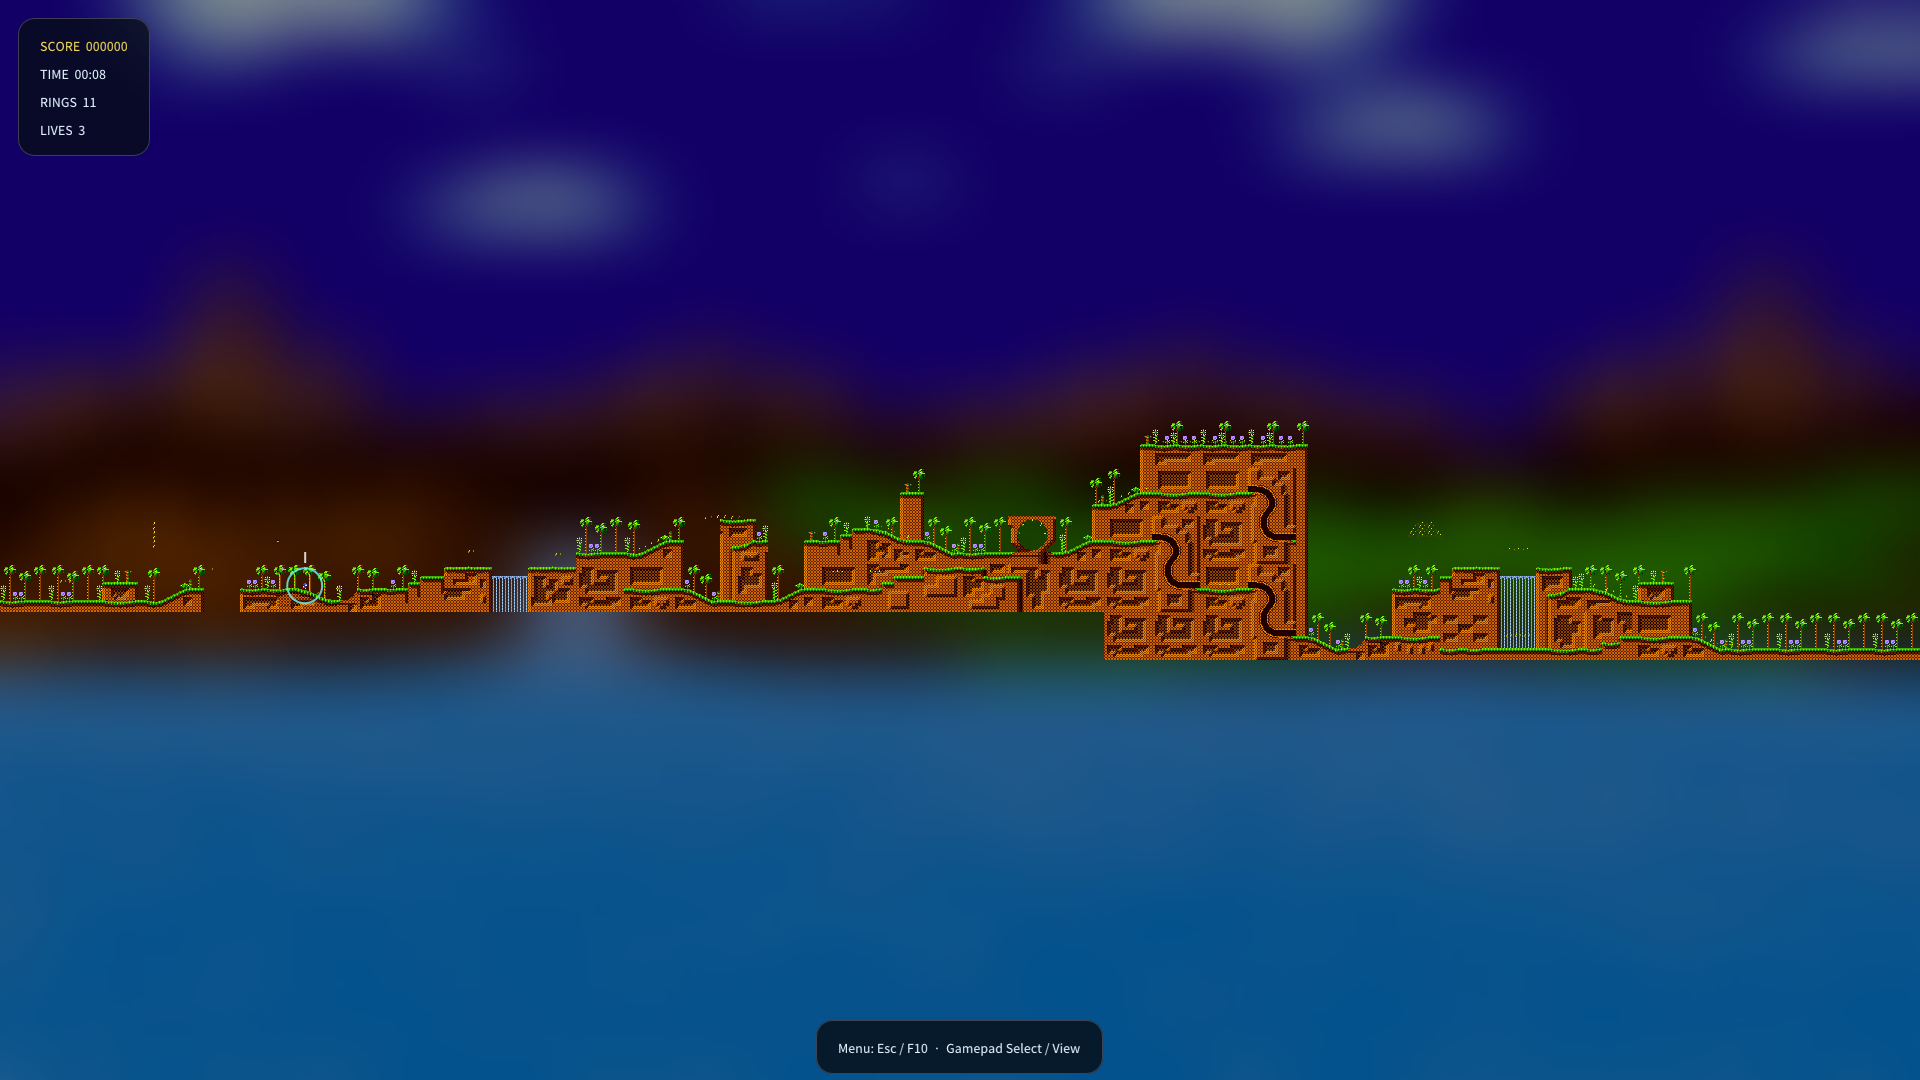
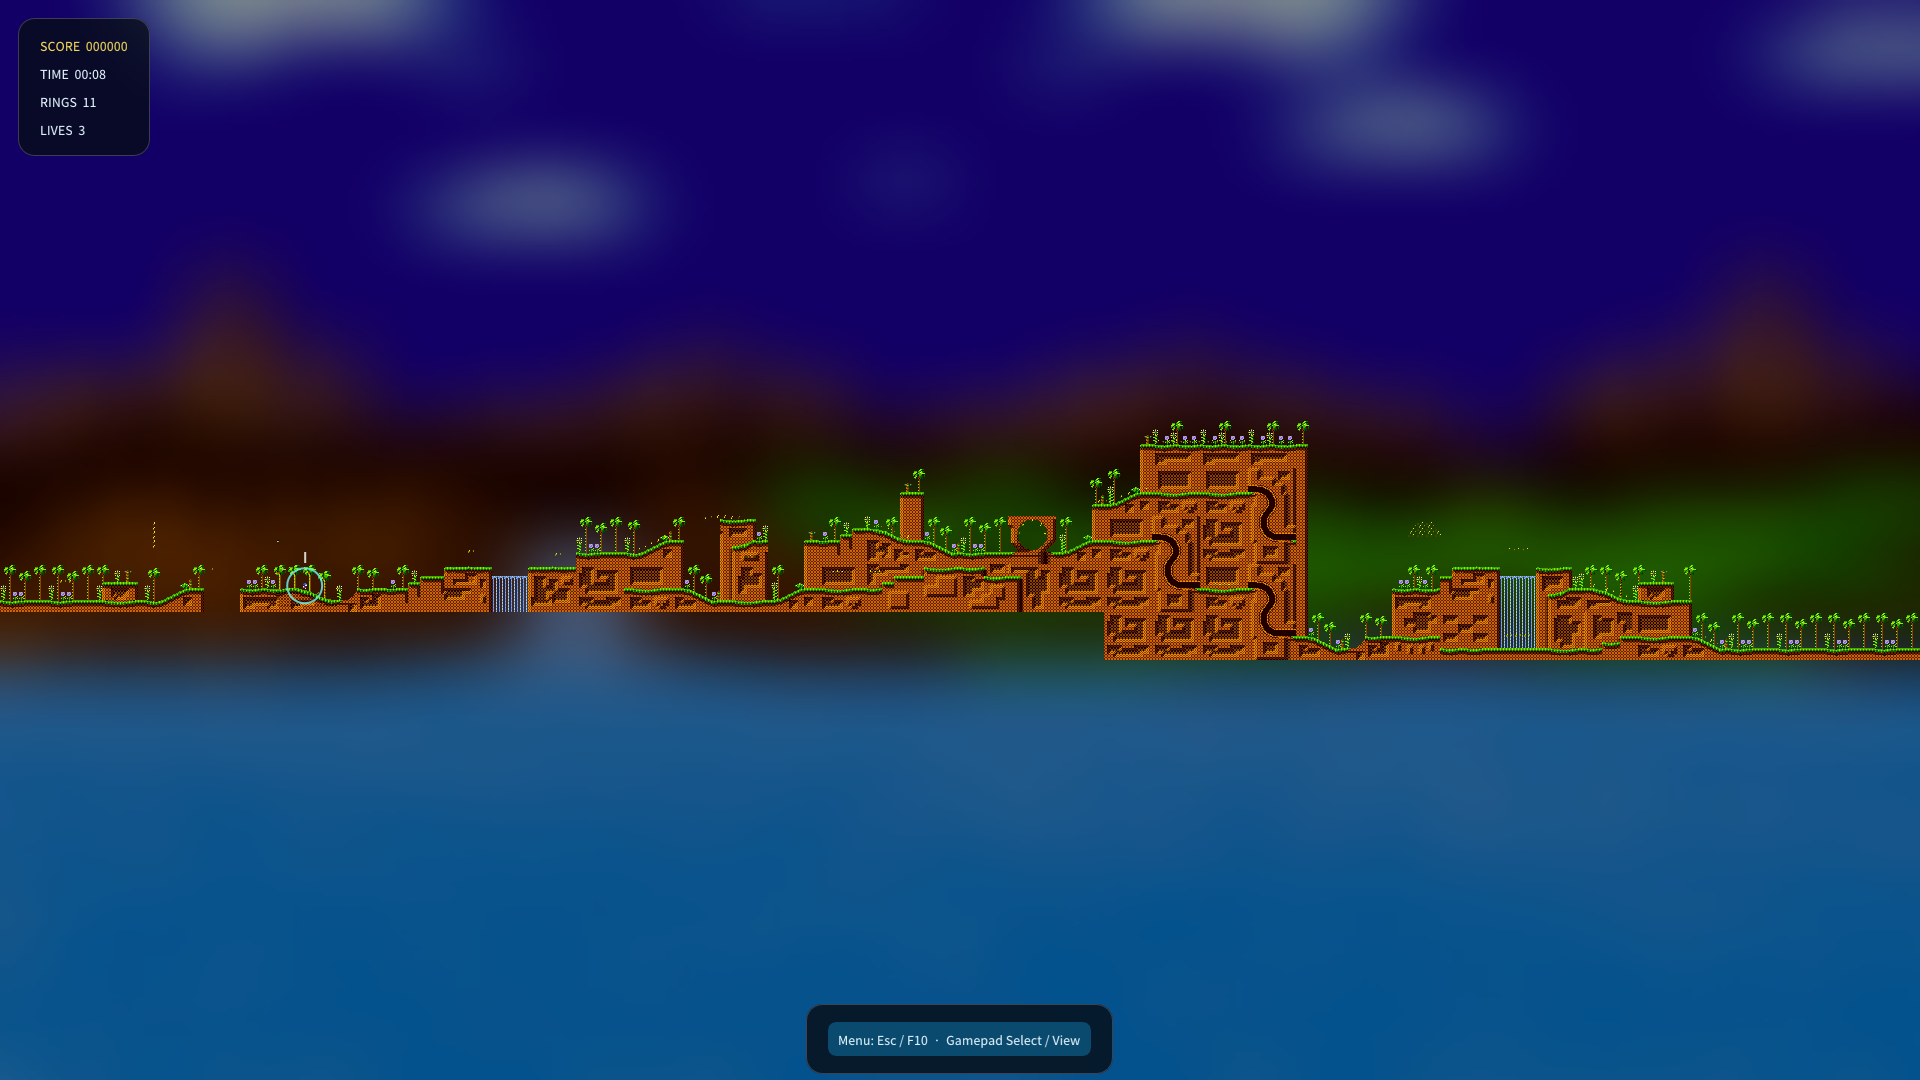
Support virtual keyboards and preserve paused save-state rendering

Changed region(s): [[0.4062, 0.9167, 0.5938, 1.0]]

diff --git a/src/ui.cpp b/src/ui.cpp
@@ -137,6 +137,7 @@ void App::refreshControllers() {
 }
 void App::toggleMenu() {
     menu = !menu;
+    pendingButtons[0] = pendingButtons[1] = 0;
     core.clearAudio();
     dirty = true;
 }
@@ -222,6 +223,7 @@ void App::event(const SDL_Event &e) {
             focused = true;
         if (e.window.event == SDL_WINDOWEVENT_FOCUS_LOST) {
             focused = false;
+            pendingButtons[0] = pendingButtons[1] = 0;
             core.clearAudio();
         }
         if (e.window.event == SDL_WINDOWEVENT_SIZE_CHANGED) {
@@ -258,6 +260,32 @@ void App::event(const SDL_Event &e) {
             return;
         }
         if (!menu && core.loaded) {
+            // Keep a short press until the next native tick, even if the display
+            // loop observes its down and up events within one refresh.
+            auto scan = e.key.keysym.scancode;
+            auto tap = [&](int player, SDL_Scancode expected, unsigned bit) {
+                if (scan == expected)
+                    pendingButtons[player] |= uint16_t(1u << bit);
+            };
+            if (!(mod & (KMOD_CTRL | KMOD_ALT))) {
+                tap(0, SDL_SCANCODE_UP, RETRO_DEVICE_ID_JOYPAD_UP);
+                tap(0, SDL_SCANCODE_DOWN, RETRO_DEVICE_ID_JOYPAD_DOWN);
+                tap(0, SDL_SCANCODE_LEFT, RETRO_DEVICE_ID_JOYPAD_LEFT);
+                tap(0, SDL_SCANCODE_RIGHT, RETRO_DEVICE_ID_JOYPAD_RIGHT);
+                tap(0, SDL_SCANCODE_Z, RETRO_DEVICE_ID_JOYPAD_Y);
+                tap(0, SDL_SCANCODE_X, RETRO_DEVICE_ID_JOYPAD_B);
+                tap(0, SDL_SCANCODE_SPACE, RETRO_DEVICE_ID_JOYPAD_B);
+                tap(0, SDL_SCANCODE_C, RETRO_DEVICE_ID_JOYPAD_A);
+                tap(0, SDL_SCANCODE_RETURN, RETRO_DEVICE_ID_JOYPAD_START);
+                tap(1, SDL_SCANCODE_I, RETRO_DEVICE_ID_JOYPAD_UP);
+                tap(1, SDL_SCANCODE_K, RETRO_DEVICE_ID_JOYPAD_DOWN);
+                tap(1, SDL_SCANCODE_J, RETRO_DEVICE_ID_JOYPAD_LEFT);
+                tap(1, SDL_SCANCODE_L, RETRO_DEVICE_ID_JOYPAD_RIGHT);
+                tap(1, SDL_SCANCODE_U, RETRO_DEVICE_ID_JOYPAD_Y);
+                tap(1, SDL_SCANCODE_O, RETRO_DEVICE_ID_JOYPAD_B);
+                tap(1, SDL_SCANCODE_P, RETRO_DEVICE_ID_JOYPAD_A);
+                tap(1, SDL_SCANCODE_RSHIFT, RETRO_DEVICE_ID_JOYPAD_START);
+            }
             if (k >= SDLK_F1 && k <= SDLK_F9) {
                 try {
                     if (mod & KMOD_SHIFT)
@@ -318,6 +346,8 @@ void App::pollInput() {
     core.buttons[0] = core.buttons[1] = 0;
     if (menu)
         return;
+    core.buttons[0] = pendingButtons[0];
+    core.buttons[1] = pendingButtons[1];
     auto set = [&](int p, bool on, int bit) {
         if (on)
             core.buttons[p] |= 1 << bit;
@@ -498,10 +528,11 @@ void App::present(bool capture) {
         ImGui::SetNextWindowBgAlpha(0.8f);
         ImGui::Begin("##hint", nullptr,
                      ImGuiWindowFlags_NoDecoration | ImGuiWindowFlags_AlwaysAutoResize |
-                         ImGuiWindowFlags_NoInputs | ImGuiWindowFlags_NoSavedSettings);
+                         ImGuiWindowFlags_NoNav | ImGuiWindowFlags_NoSavedSettings);
         if (io.DisplaySize.x < 600)
             ImGui::SetWindowFontScale(0.78f);
-        ImGui::TextUnformatted(tr("menuhint", language));
+        if (ImGui::Button(tr("menuhint", language)))
+            toggleMenu();
         if (settings.performance)
             ImGui::Text("%.1f fps · %d × %d", measuredFps, drawableW, drawableH);
         if (!notice.empty())
@@ -881,10 +912,16 @@ void App::optionsUi(int section) {
             }
         }
         if (ImGui::Button(tr("reset", language))) {
-            if(settings.lockon!=core.locked&&core.currentId!="sonic2k"&&core.currentId!="sonic3k"&&core.currentId!="sphere") {
-                std::string id=core.currentId;bool automatic=settings.autosave;
-                settings.autosave=false;play(id);settings.autosave=automatic;menu=true;
-            }else core.reset();
+            if (settings.lockon != core.locked && core.currentId != "sonic2k" &&
+                core.currentId != "sonic3k" && core.currentId != "sphere") {
+                std::string id = core.currentId;
+                bool automatic = settings.autosave;
+                settings.autosave = false;
+                play(id);
+                settings.autosave = automatic;
+                menu = true;
+            } else
+                core.reset();
         }
         ImGui::SameLine();
         if (ImGui::Button(tr("capture", language)))

diff --git a/src/core.cpp b/src/core.cpp
@@ -456,7 +456,15 @@ std::vector<uint8_t> Core::state() const {
     std::vector<uint8_t> body(n);
     if (!retro_serialize(body.data(), body.size()))
         throw std::runtime_error("State save failed");
-    std::vector<uint8_t> b{'S', 'C', 'U', '1'};
+    // Preserve the completed raster as well as guest state. Otherwise a paused
+    // load or rewind can briefly mix the previous scene with restored geometry.
+    const auto *image = reinterpret_cast<const uint8_t *>(&snapshot);
+    body.insert(body.end(), image, image + sizeof snapshot);
+    unsigned width = native.empty() ? 0 : nativeW, height = native.empty() ? 0 : nativeH;
+    const auto *pixels = reinterpret_cast<const uint8_t *>(native.data());
+    if (!native.empty())
+        body.insert(body.end(), pixels, pixels + native.size() * sizeof(uint32_t));
+    std::vector<uint8_t> b{'S', 'C', 'U', '2'};
     put32(b, runningCrc);
     put32(b, (uint32_t)n);
     put32(b, checksum(body));
@@ -464,23 +472,51 @@ std::vector<uint8_t> Core::state() const {
     put32(b, spinCharge);
     put32(b, (uint32_t)spinFacing);
     put32(b, lastButtons);
+    put32(b, width);
+    put32(b, height);
     b.insert(b.end(), body.begin(), body.end());
     return b;
 }
 bool Core::restore(const std::vector<uint8_t> &b) {
-    if (!loaded || b.size() < 32 || std::memcmp(b.data(), "SCU1", 4) || get32(b, 4) != runningCrc ||
-        get32(b, 8) != b.size() - 32)
+    if (!loaded || b.size() < 32 || get32(b, 4) != runningCrc)
         return false;
-    std::vector<uint8_t> body(b.begin() + 32, b.end());
+    bool raster = std::memcmp(b.data(), "SCU2", 4) == 0;
+    if (!raster && std::memcmp(b.data(), "SCU1", 4))
+        return false;
+    size_t header = raster ? 40 : 32, n = get32(b, 8), pixels = 0;
+    unsigned width = 0, height = 0;
+    if (n > 16 * 1024 * 1024 || b.size() < header)
+        return false;
+    if (raster) {
+        width = get32(b, 32);
+        height = get32(b, 36);
+        if (width > 720 || height > 576 || (!width != !height))
+            return false;
+        pixels = size_t(width) * height;
+    }
+    size_t expected = n + (raster ? sizeof snapshot + pixels * sizeof(uint32_t) : 0);
+    if (b.size() - header != expected)
+        return false;
+    std::vector<uint8_t> body(b.begin() + header, b.end());
     if (checksum(body) != get32(b, 12))
         return false;
-    if (!retro_unserialize(body.data(), body.size()))
+    if (!retro_unserialize(body.data(), n))
         return false;
     frame = get32(b, 16);
     spinCharge = std::min(8, (int)get32(b, 20));
-    spinFacing = (int32_t)get32(b, 24);
+    spinFacing = (int32_t)get32(b, 24) < 0 ? -1 : 1;
     lastButtons = (uint16_t)get32(b, 28);
     scu_snapshot(&snapshot);
+    native.clear();
+    if (raster) {
+        std::memcpy(&snapshot, body.data() + n, sizeof snapshot);
+        nativeW = width;
+        nativeH = height;
+        native.resize(pixels);
+        if (pixels)
+            std::memcpy(native.data(), body.data() + n + sizeof snapshot,
+                        pixels * sizeof(uint32_t));
+    }
     ++imageVersion;
     world.reset();
     clearAudio();

diff --git a/src/main.cpp b/src/main.cpp
@@ -68,7 +68,8 @@ static void option(Settings &s, const std::string &key, const std::string &value
     SET(hud)
     SET(hudScale)
     SET(background)
-    SET(blur) SET(brightness) SET(parallax) SET(minimap) SET(locator) SET(spindash) SET(invincible)
+    SET(blur)
+    SET(brightness) SET(parallax) SET(minimap) SET(locator) SET(spindash) SET(invincible)
         SET(infiniteAir) SET(rewind) SET(nativeScale) SET(ghost) SET(left) SET(top) SET(volume)
             SET(language) SET(help) SET(workers) SET(fullscreen) SET(span) SET(vsync) SET(uiScale)
                 SET(scanlines) SET(lockon) SET(fastBoot)
@@ -333,6 +334,7 @@ int main(int argc, char **argv) {
                 else {
                     if (limit && !args.count("--realtime")) {
                         a.core.tick();
+                        a.pendingButtons[0] = a.pendingButtons[1] = 0;
                         ++measureFrames;
                         ++executedFrames;
                     } else {
@@ -340,6 +342,7 @@ int main(int argc, char **argv) {
                         int ticks = 0;
                         while (accumulator >= 1 / a.core.fps && ticks++ < 4) {
                             a.core.tick();
+                            a.pendingButtons[0] = a.pendingButtons[1] = 0;
                             ++measureFrames;
                             ++executedFrames;
                             accumulator -= 1 / a.core.fps;

diff --git a/tests/runtime.cpp b/tests/runtime.cpp
@@ -87,13 +87,19 @@ int main() {
             red |= (pixel & 0xFF0000) >= 0xB00000 && (pixel & 0xFFFF) == 0;
         require(red, "VDP backdrop did not reach host framebuffer");
         auto state = core->state();
+        const auto savedVideo = core->native;
+        const auto savedBackdrop = core->snapshot.background[0][0];
         const auto counter = core->snapshot.ram[0x1235];
         const auto savedFrame = core->frame;
         for (int n = 0; n < 15; ++n)
             core->tick();
+        core->native.assign(core->native.size(), 0);
+        core->snapshot.background[0][0] ^= 0xFFFFFF;
         require(core->restore(state), "State restore");
         require(core->frame == savedFrame && core->snapshot.ram[0x1235] == counter,
                 "State failed to restore native RAM and host time");
+        require(core->native == savedVideo && core->snapshot.background[0][0] == savedBackdrop,
+                "State failed to restore the paused presentation raster");
         auto damaged = state;
         damaged.back() ^= 1;
         require(!core->restore(damaged), "Corrupt state accepted");

diff --git a/src/ui.h b/src/ui.h
@@ -29,6 +29,7 @@ class App {
     SDL_Window *window = nullptr;
     SDL_Renderer *renderer = nullptr;
     SDL_GameController *pads[2]{};
+    uint16_t pendingButtons[2]{};
     bool running = true, menu = true, focused = true, headless = false, dirty = false;
     bool screenshotRequested = false;
     int language = 0, drawableW = 1280, drawableH = 720;

diff --git a/docs/VENDOR.md b/docs/VENDOR.md
@@ -10,6 +10,8 @@
 
[1 lines of base64/hex data omitted]
 
+The pinned SDL Windows build receives a small, idempotent patch in `cmake/SDLLegacyKeys.cmake`: a virtual keyboard message with no hardware scan code is resolved through the Windows key map before normal SDL translation. This supports virtual/on-screen and automation keyboards while preserving messages that already contain scan codes. The source archive retains the original pinned tarball and the patch script. A system SDL library is used as supplied by that system.
+
 The vendored Genesis directories are the upstream `core` and `libretro` sources plus notices. SCU adds a read-only palette/background/scroll observer to `vdp_render.c`, fixes the omitted Boolean return in `update_geometry`, and builds through its own CMake source list with zlib 1.3.1. CPU, collision, native spawning and normal game timing are not rewritten by the presentation observer.
 
 The frontend and compositor are new project code. Sonic Retro disassemblies and the mstan renderer projects were consulted for documented memory/layout formats; their game ROMs, generated game-program C, box art and extracted artwork are not included.

diff --git a/docs/TEST_REPORT.md b/docs/TEST_REPORT.md
@@ -26,7 +26,9 @@ Physical host: Windows, AMD Ryzen 7 5800X, Nvidia GeForce RTX 5070. The three-sc
 | State files | Corrupt payload and wrong-cartridge states rejected; charged S1 spin dash survives save/load; previous files preserved as `.bak` |
 | Spin dash option | Identical Down/jump inputs: disabled Sonic stays near the start; enabled charge reaches 3, then launches forward and clears on release |
 | App-menu input | Injected SDL Select/View and Esc events toggle the menu; native frame stays unchanged while paused and resumes when closed |
+| Native Windows interface | Mouse library/options/resume/quit exercised; F10, Esc, Ctrl+4 and F1 verified through the desktop tester after adding zero-scan-code virtual-key support |
 | Rewind | Native checkpoint restoration exercised after a save/load |
+| Paused visual restore | State format includes the presentation raster; restoring guest RAM/time also restores the native image and backdrop |
 
 Headless test throughput exceeding hundreds of ticks per second is deliberately not presented as display performance. Real-time measurements above count executed native ticks during the measured loop; neutral startup fast-forward is excluded from that rate.
 

diff --git a/docs/QUICK_START.md b/docs/QUICK_START.md
@@ -34,6 +34,8 @@ Click **Play**, then press **Enter** or **gamepad Start** on the original title 
 
 The first two controllers drive players 1 and 2. A second keyboard player uses **I/J/K/L**, **U/O/P** and **right Shift**. The games retain their original multiplayer rules.
 
+You can also click the menu reminder at the bottom of the game. Short keyboard presses are kept until the next game tick, so a fast display refresh does not swallow a quick Start or jump.
+
 ## Pick a comfortable view
 
 - **Balanced:** a useful first choice on ordinary PCs.
